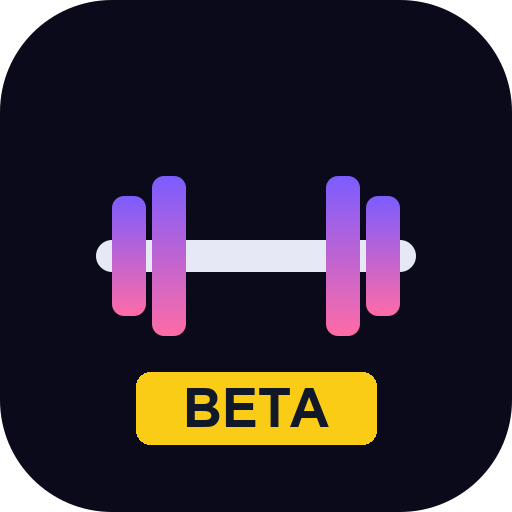
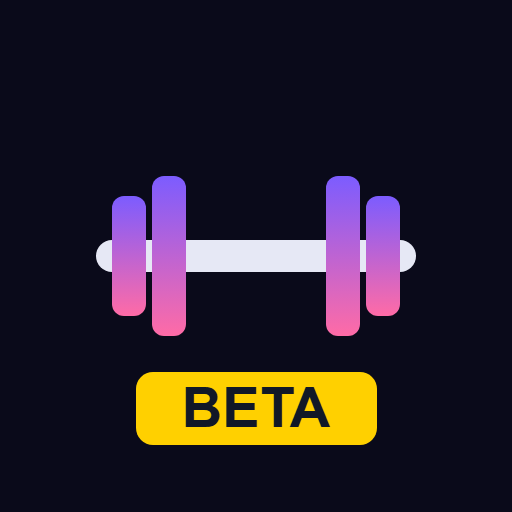
fix(ui): отступы блоков круга и непрозрачные иконки PWA

diff --git a/src/lib/pwaIcons.test.js b/src/lib/pwaIcons.test.js
@@ -1,0 +1,22 @@
+import { describe, it, expect } from 'vitest'
+import { readFileSync } from 'node:fs'
+
+describe('иконки установки PWA', () => {
+  for (const prefix of ['', 'beta-']) {
+    for (const [name, size] of [['icon-192.png',192],['icon-512.png',512],['apple-touch-icon.png',180]]) {
+      it(`${prefix}${name}: непрозрачный квадрат без прозрачных углов`, () => {
+        const png = readFileSync(new URL(`../../public/${prefix}${name}`, import.meta.url))
+        expect(png.subarray(1,4).toString()).toBe('PNG')
+        expect(png.readUInt32BE(16)).toBe(size)
+        expect(png.readUInt32BE(20)).toBe(size)
+        // PNG truecolor RGB, без alpha-канала и ключа прозрачности tRNS.
+        expect(png[25]).toBe(2)
+        for (let offset=8; offset<png.length;) {
+          const length=png.readUInt32BE(offset)
+          expect(png.toString('ascii',offset+4,offset+8)).not.toBe('tRNS')
+          offset += length+12
+        }
+      })
+    }
+  }
+})

diff --git a/src/content/whatsNew.js b/src/content/whatsNew.js
@@ -35,7 +35,10 @@ export const WHATS_NEW = [
       { e: '🏠', t: 'Новый адрес приложения: kachalka-app.ru/app/' },
       { e: '🔒', t: 'Перед переходом проверь сохранение данных кнопкой «Как перейти»' },
     ],
-    minor: [],
+    minor: [
+      { e: '👥', t: 'Раскрытые блоки в «Моем круге» больше не слипаются' },
+      { e: '📱', t: 'Иконка приложения без белых уголков на iPhone при новой установке' },
+    ],
   },
   {
     version: '1.9.0',

diff --git a/src/index.css b/src/index.css
@@ -4378,7 +4378,8 @@ html[data-sheet-open] .content { overflow-y: hidden; }
 .fc-title-row { display: flex; flex-direction: column; gap: 2px; margin: 4px 0 12px; }
 .fc-fold { margin-bottom: 12px; }
 .fc-fold > .menu-row { margin-bottom: 0; }
-.fc-fold > .card { margin-top: 8px; margin-bottom: 0; }
+.fc-fold-panel { padding-top: 8px; }
+.fc-fold-panel > .card { margin-bottom: 0; }
 .fc-circle-name { margin: 0; font-family: var(--font-display); font-weight: 900; font-size: 22px; text-transform: uppercase; letter-spacing: .02em; }
 .fc-code {
   margin: 6px 0 4px; text-align: center; color: var(--text);

diff --git a/src/components/circle/CircleCode.jsx b/src/components/circle/CircleCode.jsx
@@ -16,7 +16,7 @@ export default function CircleCode({ api, circle }) {
   return (
     <div className="fc-fold" ref={revealRef}>
       <MenuRow kind="expand" icon="invite" title="Мой код в круг" open={open} onClick={() => setManual(!open)} />
-      <div hidden={!open}><CodePanel api={api} circle={circle} /></div>
+      <div className="fc-fold-panel" hidden={!open}><CodePanel api={api} circle={circle} /></div>
     </div>
   )
 }

diff --git a/src/components/circle/CircleOwnerSettings.jsx b/src/components/circle/CircleOwnerSettings.jsx
@@ -16,7 +16,7 @@ export default function CircleOwnerSettings(props) {
   return (
     <div className="fc-fold" ref={revealRef}>
       <MenuRow kind="expand" icon="sliders" title="Настройки круга" open={open} onClick={() => setOpen((v) => !v)} />
-      <div hidden={!open}><OwnerPanel {...props} /></div>
+      <div className="fc-fold-panel" hidden={!open}><OwnerPanel {...props} /></div>
     </div>
   )
 }
